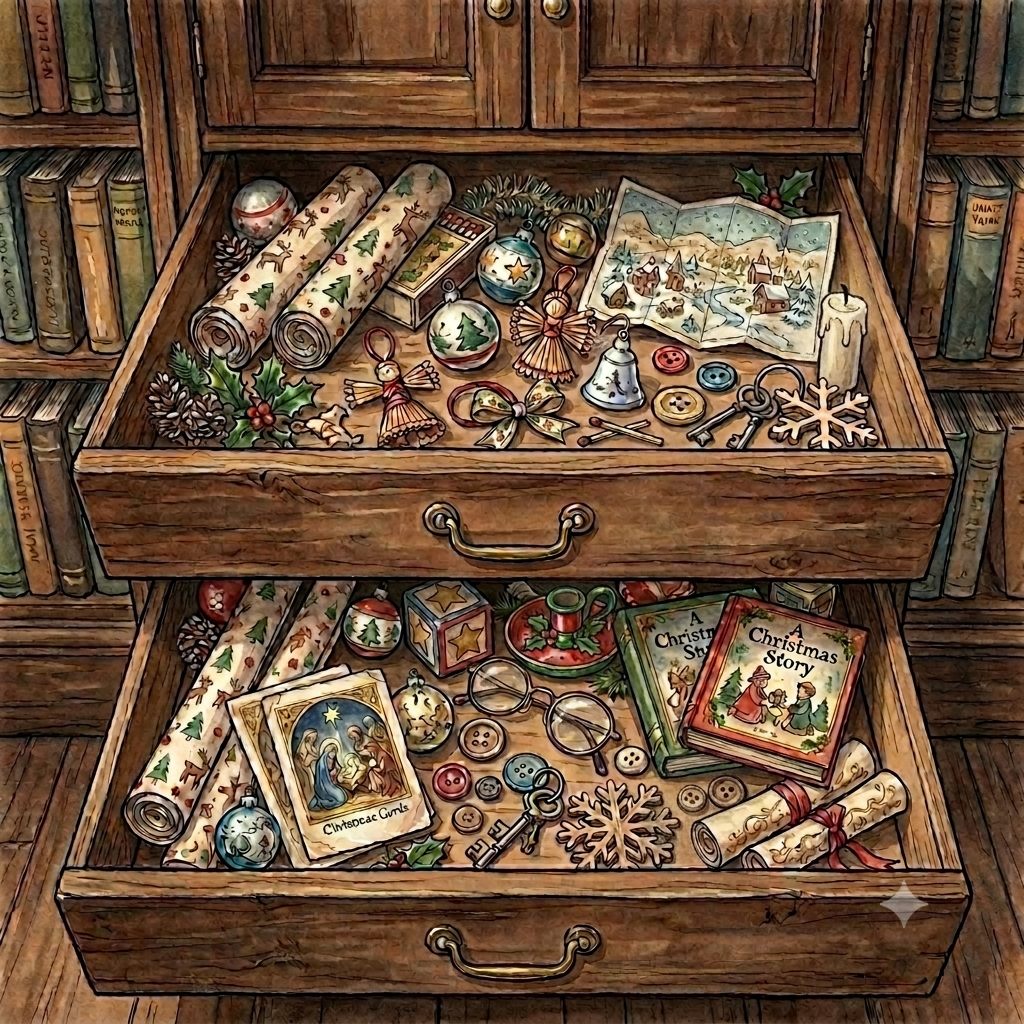
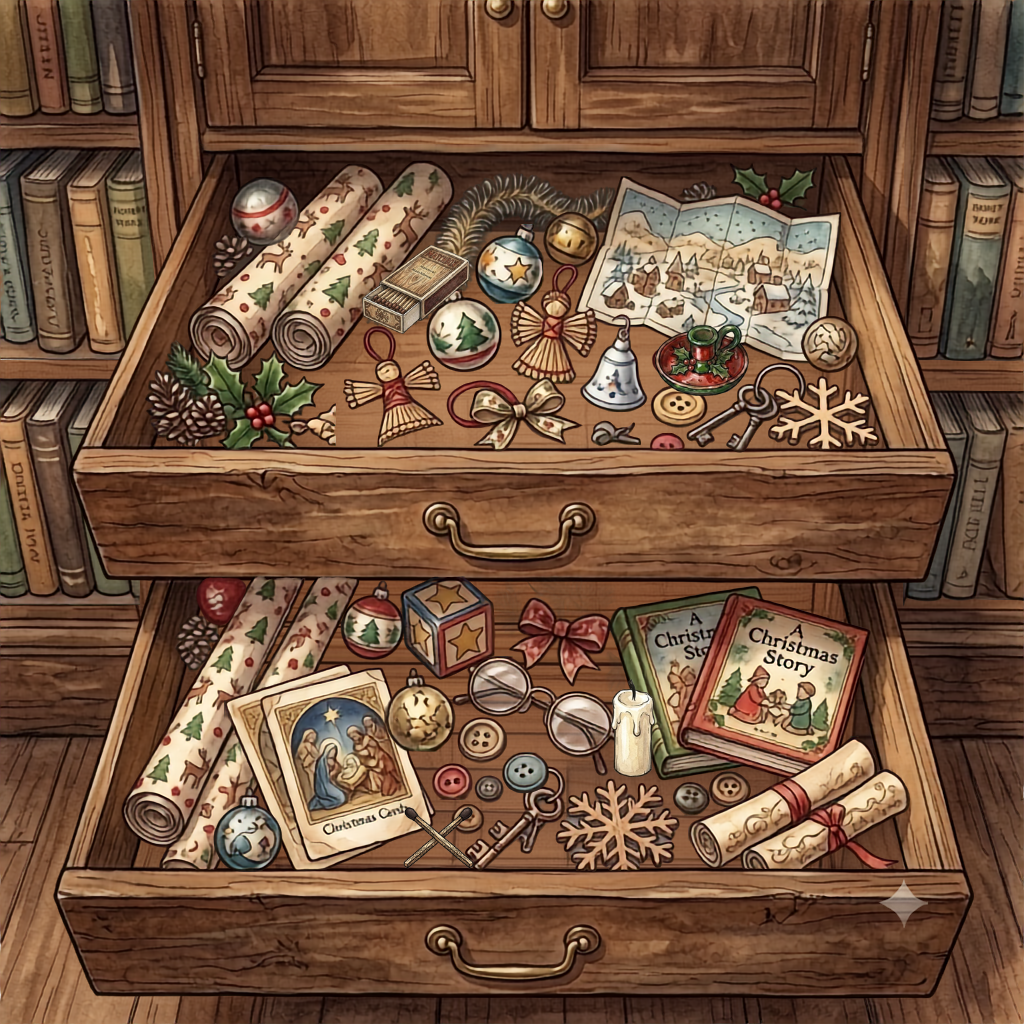
Feature : Initialized fase2 Images added

diff --git a/scripts.js b/scripts.js
@@ -125,26 +125,43 @@ iniciarFaseOscura: function() {
         if (this.faseOscuraActiva) return;
         this.faseOscuraActiva = true;
 
-        // 2. Ocultamos el cartel de victoria (ajusta el ID si es distinto)
+        // 2. Ocultamos el cartel de victoria si existe
         const pantallaFinal = document.getElementById('pantalla-final');
         if (pantallaFinal) pantallaFinal.classList.add('oculto');
         
-        // 3. Obtenemos el escenario
-    const imagenEscenario = document.querySelector('.imagen-escenario');
-        if (imagenEscenario) {
-        imagenEscenario.src = './altillo.png'; // Cambia la ruta a tu nueva imagen
+        // 3. Obtenemos el contenedor del escenario correctamente
+        const escenario = document.getElementById('escenario-busqueda');
+        if (!escenario) {
+            console.error("No se encontró el elemento #escenario-busqueda");
+            return;
         }
+
+        // 4. Cambiamos la imagen del escenario por el altillo nocturno
+        const imagenEscenario = escenario.querySelector('.imagen-escenario');
+        if (imagenEscenario) {
+            imagenEscenario.src = './altillo.png'; 
+        }
+
+        // [OPCIONAL] Ocultamos las hitboxes de la primera fase para que no interfieran
+        const hitboxesAntiguas = escenario.querySelectorAll('.hitbox');
+        hitboxesAntiguas.forEach(hb => hb.style.display = 'none');
         
-        // 4. Activamos la clase en el contenedor para el efecto visual
+        // 5. Activamos la clase en el contenedor para el efecto visual
         escenario.classList.add('fase-oscura-activa');
         
-        // 5. Creamos el elemento de luz
+        // 6. Creamos el elemento de luz
         const luz = document.createElement('div');
         luz.id = 'luz-vela';
         escenario.appendChild(luz);
         
-        // 6. Evento de movimiento (Coordenadas relativas al contenedor)
+        // Guardamos una referencia para usarla dentro del evento sin romper el contexto
+        const self = this;
+        
+        // 7. Evento de movimiento (Coordenadas relativas al contenedor)
         escenario.addEventListener('mousemove', function(e) {
+            // CORRECCIÓN: Usamos 'self' que apunta a JuegoAdviento
+            if (!self.faseOscuraActiva) return;
+
             const rect = escenario.getBoundingClientRect();
             
             // Calculamos la posición del ratón dentro del div del escenario
@@ -157,9 +174,8 @@ iniciarFaseOscura: function() {
             luz.style.top = posY + 'px';
         });
 
-        console.log("🕯️ La vela ha sido encendida. Modo noche activado.");
- } };
-
+        console.log("🕯️ La vela ha sido encendida. Modo noche activado perfectamente.");
+    }}
 
 // Autoarranque al cargar el DOM
 window.addEventListener('DOMContentLoaded', () => {

diff --git a/styles.css b/styles.css
@@ -259,10 +259,10 @@ body {
 }
 
 /* Coordenadas relativas en base a tu imagen limpia */
-#hitbox-caja { top: 19.5%; left: 36.5%; width: 12%; height: 12%; }
-#hitbox-cerillas { top: 40%; left: 56%; width: 9%; height: 4.5%; }
-#hitbox-candela { top: 27.5%; left: 79%; width: 5.5%; height: 11%; }
-#hitbox-porta { top: 55.5%; left: 48.5%; width: 12.5%; height: 10%; }
+#hitbox-caja { top: 22.5%; left: 35.5%; width: 10%; height: 11%; }
+#hitbox-cerillas { top: 79%; left: 39%; width: 8%; height: 5.5%; }
+#hitbox-candela { top: 67%; left: 59%; width: 5.5%; height: 9%; }
+#hitbox-porta { top: 30%; left: 63%; width: 10.5%; height: 9%; }
 /* ==========================================================================
    PANTALLAS MODALES (Tu sistema de cajas mágicas a pantalla completa)
    ========================================================================== */
@@ -361,6 +361,7 @@ body.fase-oscura {
     cursor: none !important;
     position: relative;
     overflow: hidden; 
+    z-index: 10;
 }
 
 #luz-vela {